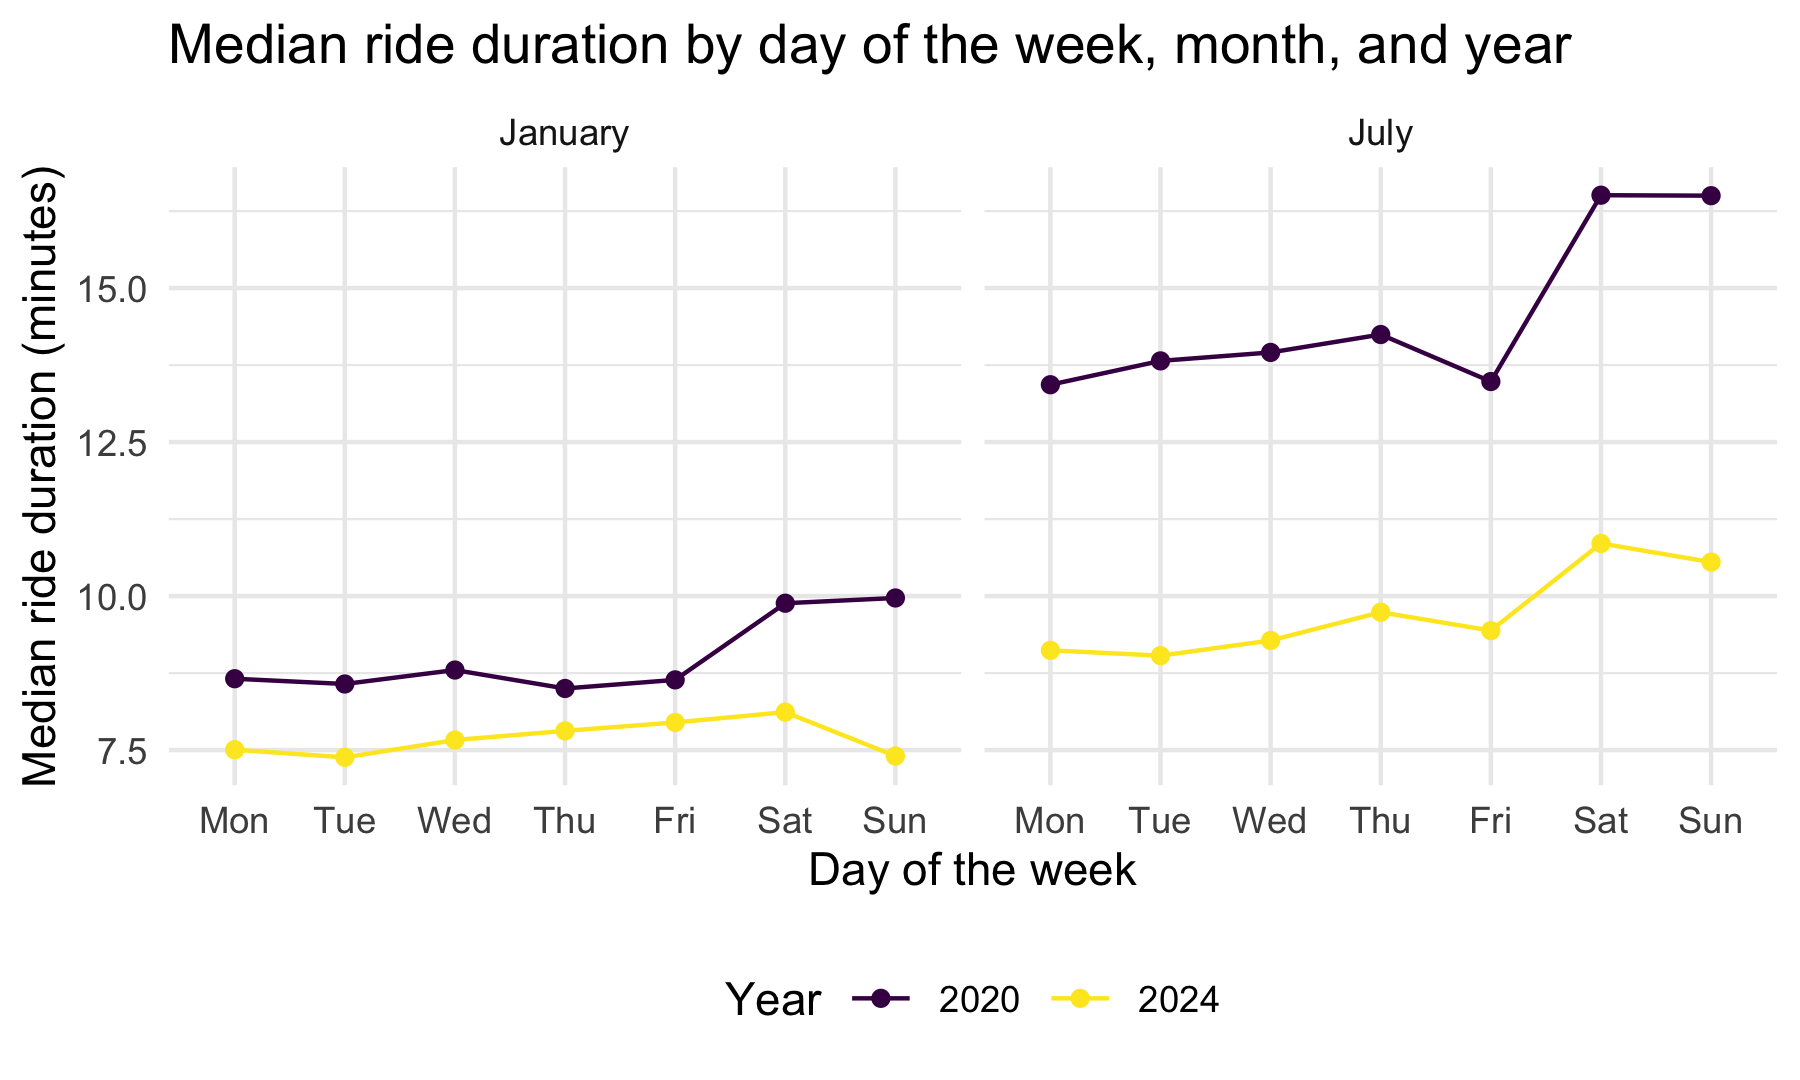
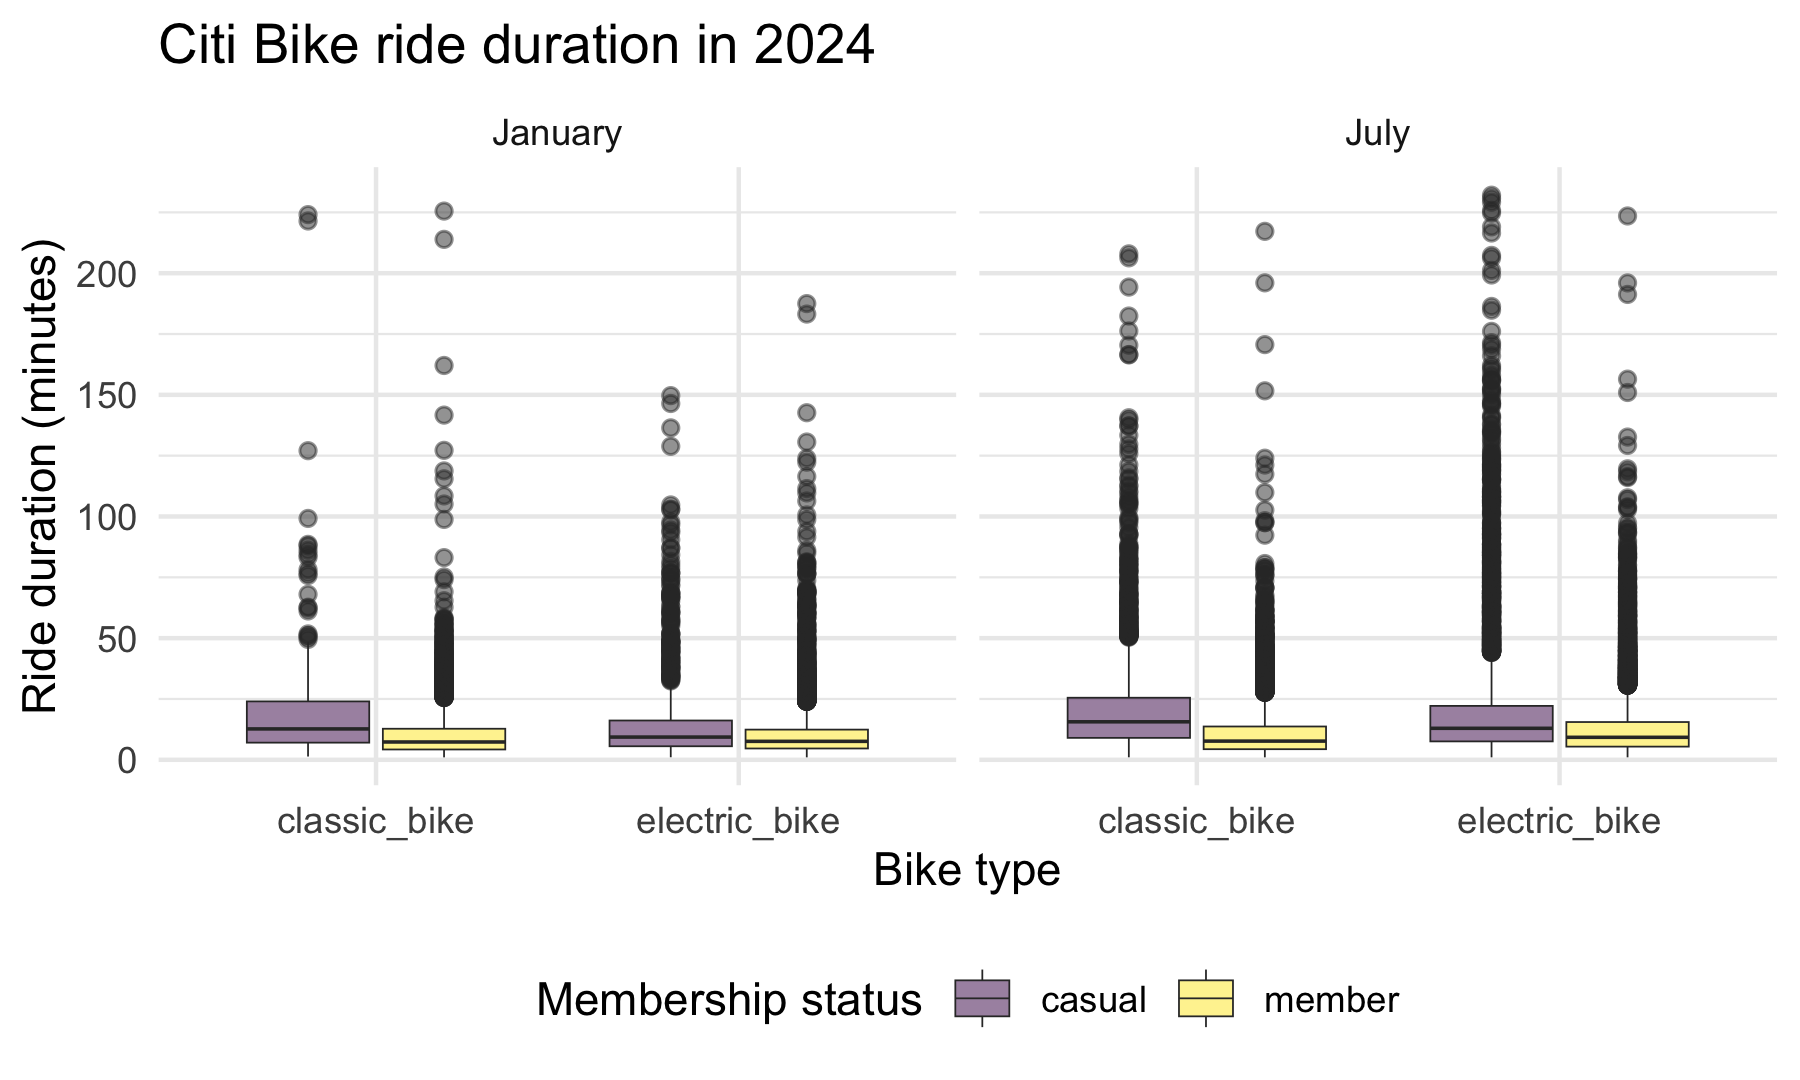
2024 ride duration distribution plot (problem 3)

diff --git a/p8105_hw3_nel2139.md b/p8105_hw3_nel2139.md
@@ -570,3 +570,64 @@ duration of the week. In January 2020, median ride duration stayed
 fairly stable throughout the week and increased on the weekend, while in
 January 2024, duration increased slightly through Saturday before
 dropping on Sunday.
+
+2024 ride duration distribution by month, membership status, and bike
+type
+
+``` r
+citi_df |> 
+  filter(year == "2024") |> 
+  ggplot(aes(x = rideable_type, y = duration, fill = member_casual)) + 
+  geom_boxplot(alpha = .5, linewidth = .2) +
+  facet_grid(~month) +
+  labs(
+    title = "Citi Bike ride duration in 2024",
+    x = "Bike type",
+    y = "Ride duration (minutes)", 
+    fill = "Membership status"
+  )
+```
+
+<img src="p8105_hw3_nel2139_files/figure-gfm/unnamed-chunk-15-1.png" alt="" width="90%" />
+
+``` r
+citi_df |> 
+  filter(year == "2024") |> 
+  group_by(month, member_casual, rideable_type) |> 
+  summarize(median_duration = median(duration))
+```
+
+    ## `summarise()` has regrouped the output.
+    ## ℹ Summaries were computed grouped by month, member_casual, and rideable_type.
+    ## ℹ Output is grouped by month and member_casual.
+    ## ℹ Use `summarise(.groups = "drop_last")` to silence this message.
+    ## ℹ Use `summarise(.by = c(month, member_casual, rideable_type))` for
+    ##   per-operation grouping (`?dplyr::dplyr_by`) instead.
+
+    ## # A tibble: 8 × 4
+    ## # Groups:   month, member_casual [4]
+    ##   month   member_casual rideable_type median_duration
+    ##   <fct>   <fct>         <fct>                   <dbl>
+    ## 1 January casual        classic_bike            12.7 
+    ## 2 January casual        electric_bike            9.34
+    ## 3 January member        classic_bike             7.32
+    ## 4 January member        electric_bike            7.58
+    ## 5 July    casual        classic_bike            15.6 
+    ## 6 July    casual        electric_bike           12.9 
+    ## 7 July    member        classic_bike             7.68
+    ## 8 July    member        electric_bike            9.24
+
+In 2024, casual riders generally took longer rides than members,
+especially on classic bikes. In January, the median classic bike ride
+lasted about 12.7 minutes for casual riders compared to 7.3 minutes for
+members, and in July, it lasted about 15.6 minutes for casual riders
+compared to 7.7 minutes for members. Casual riders took longer rides in
+July than in January, while members’ ride duration stayed fairly similar
+across months. Among casual riders, median ride duration was longer for
+classic bikes than for electric bikes, however, among members, median
+ride duration was slightly longer for electric bikes than for classic
+bikes, especially in July. Across all months, membership statuses, and
+bike types, ride duration was right-skewed, with most rides lasting
+under about 25 minutes. There were also many outliers representing
+unusually long rides, particularly in July, with some rides exceeding
+200 minutes.
